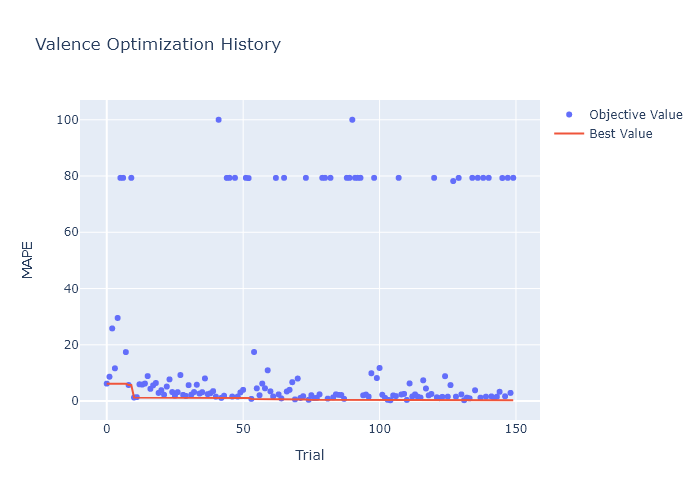
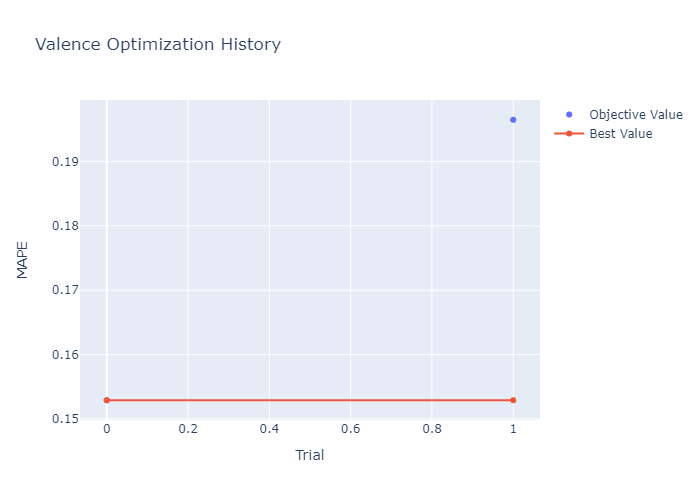
added valuation to VA model

diff --git a/MusicVAClassifier/train_models.py b/MusicVAClassifier/train_models.py
@@ -9,12 +9,10 @@ import pandas as pd
 import librosa
 from keras import Model
 from keras.optimizers import SGD
-from sklearn.svm import SVR, NuSVR
 from sklearn.model_selection import train_test_split
 from keras.layers import Input, Dense, Dropout
 import optuna.visualization as vis
-from sklearn.metrics import mean_squared_error
-import joblib
+from sklearn import metrics
 
 
 class Bcolors:
@@ -114,7 +112,6 @@ def build_model():
 
     # --- Extract Common features using librosa
     # Mel-frequency cepstral coefficients (MFCCs)
-    # TODO - define fmin and fmax - but see first the average
     mfcc = np.array([librosa.feature.mfcc(y=librosa.load('MuVi_musics/' + file, duration=150)[0],
                                           sr=librosa.load('MuVi_musics/' + file, duration=150)[1])
                      for file in dataset["Music_name"]])
@@ -124,7 +121,6 @@ def build_model():
     print("Mfcc done!")
 
     # Spectral centroid
-    # TODO - define fmin and fmax - but see first the average
     cent = np.array(
         [librosa.feature.spectral_centroid(y=librosa.load('MuVi_musics/' + file, duration=150)[0]) for file in
          dataset["Music_name"]])
@@ -133,8 +129,6 @@ def build_model():
     cent = np.around(np.interp(cent, (0, 8550), (0, 1)), decimals=3)
     print("cent done!")
 
-    # TODO - Acho que Range: [0; 1]
-    # TODO - normalizar para 3 casas decimais
     # Zero-crossing rate
     zcr = np.array(
         [librosa.feature.zero_crossing_rate(y=librosa.load('MuVi_musics/' + file, duration=150)[0]) for file in
@@ -147,8 +141,6 @@ def build_model():
 
     # --- Extract Valence features using librosa
     # Chroma features
-    # TODO - Acho que Range: [0; 1]
-    # TODO - normalizar para 3 casas decimais
     chroma_cqt = np.array(
         [librosa.feature.chroma_cqt(y=librosa.load('MuVi_musics/' + file, duration=150)[0],
                                     sr=librosa.load('MuVi_musics/' + file, duration=150)[1])
@@ -158,8 +150,6 @@ def build_model():
     chroma_cqt = np.around(chroma_cqt, decimals=3)
     print("Chroma_cqt done!")
 
-    # Range: [0; 1]
-    # TODO - normalizar para 3 casas decimais
     chroma_stft = np.array(
         [librosa.feature.chroma_stft(y=librosa.load('MuVi_musics/' + file, duration=150)[0],
                                      sr=librosa.load('MuVi_musics/' + file, duration=150)[1])
@@ -169,8 +159,6 @@ def build_model():
     chroma_stft = np.around(chroma_stft, decimals=3)
     print("chroma_stft done!")
 
-    # Range: [0; 1]
-    # TODO - normalizar para 3 casas decimais
     chroma_cens = np.array(
         [librosa.feature.chroma_cens(y=librosa.load('MuVi_musics/' + file, duration=150)[0],
                                      sr=librosa.load('MuVi_musics/' + file, duration=150)[1])
@@ -181,7 +169,6 @@ def build_model():
     print("chroma_cens done!")
 
     # Spectral rolloff
-    # TODO - define min and max - but see first the average
     rolloff = np.array(
         [librosa.feature.spectral_rolloff(y=librosa.load('MuVi_musics/' + file, duration=150)[0],
                                           sr=librosa.load('MuVi_musics/' + file, duration=150)[1])
@@ -193,7 +180,6 @@ def build_model():
 
     # --- Extract Arousal features using librosa
     # Spectral contrast
-    # TODO - define fmin and fmax - but see first the average - I think it goes from 0 to 65
     spectral_contrast = np.array(
         [librosa.feature.spectral_contrast(y=librosa.load('MuVi_musics/' + file, duration=150)[0],
                                            sr=librosa.load('MuVi_musics/' + file, duration=150)[1])
@@ -226,17 +212,24 @@ def build_model():
     print("Train and test split...")
     # Split data into training and testing sets for Valence
     x_train_valence, x_test_valence, y_train_valence, y_test_valence = train_test_split(dataframe_valence, y_valence,
-                                                                                        test_size=0.2, random_state=42)
+                                                                                        test_size=0.25, random_state=42)
     x_train_arousal, x_test_arousal, y_train_arousal, y_test_arousal = train_test_split(dataframe_arousal, y_arousal,
-                                                                                        test_size=0.2, random_state=42)
+                                                                                        test_size=0.25, random_state=42)
+
+    # Split data into training and validation sets for Valence
+    x_train_valence, x_val_valence, y_train_valence, y_val_valence = train_test_split(x_train_valence, y_train_valence,
+                                                                                        test_size=0.25, random_state=42)
+    x_train_arousal, x_val_arousal, y_train_arousal, y_val_arousal = train_test_split(x_train_arousal, y_train_arousal,
+                                                                                        test_size=0.25, random_state=42)
 
     # --- Valence Model With Optuna
+    print(f"Training Valence...")
     study = optuna.create_study(direction='minimize')  # or 'maximize' if optimizing accuracy
-    study.optimize(lambda trial: objective(trial, x_train_valence, y_train_valence,
-                                           'valence'), n_trials=150)
+    study.optimize(lambda trial: objective(trial, x_train_valence, x_test_valence, x_val_valence,
+                                           y_train_valence, y_test_valence, y_val_arousal,
+                                           'valence'), n_trials=2)
 
     # Plot and save the optimization history
-    optuna_history = study.trials_dataframe()
     fig = vis.plot_optimization_history(study)
     fig.update_layout(title="Valence Optimization History", yaxis_title="MAPE")
     fig.write_image("./Optuna_History_images/valence_optuna_history.png")
@@ -253,34 +246,28 @@ def build_model():
     best_epochs = best_trial.params['epochs']
     best_batch_size = best_trial.params['batch_size']
 
-    best_metric_valence, best_model_valence = train_model(x_train_valence, y_train_valence, 'valence',
+    best_metric_valence, best_model_valence = train_model(x_train_valence, x_test_valence, x_val_valence,
+                                                          y_train_valence, y_test_valence, y_val_valence, 'valence',
                                                           best_learning_rate, best_num_units, best_dropout_rate,
                                                           best_epochs, best_batch_size)
 
     # best_metric_valence, best_model_valence = train_model(x_train_valence, y_train_valence, 'valence',
     #                                                       0.0007587243085528094, 282, 0.0004096418070471742)
 
-    print('Best value: {:.5f}'.format(best_metric_valence))
-    # print('Best parameters: {}'.format(best_trial.params))
-
-    # 5. Evaluate the model on the test data
-    evaluation_results = best_model_valence.evaluate(x_test_valence, y_test_valence)
-
-    # Print the metric values during evaluation
-    print(f"Valence evaluation results: ")
-    for metric_name, metric_value in zip(best_model_valence.metrics_names, evaluation_results):
-        print(metric_name + ": " + str(metric_value))
+    print('Best validation MAPE value: {:.5f}'.format(best_metric_valence))
+    print('Best parameters: {}'.format(best_trial.params))
 
     # Save the best model
     best_model_valence.save("../models/valence_model.h5")
 
     # --- Arousal Model With Optuna
+    print(f"Training Arousal...")
     study_arousal = optuna.create_study(direction='minimize')  # or 'maximize' if optimizing accuracy
-    study_arousal.optimize(lambda trial: objective(trial, x_train_arousal, y_train_arousal, 'arousal'),
-                           n_trials=150)
+    study_arousal.optimize(lambda trial: objective(trial, x_train_arousal, x_test_arousal, x_val_arousal,
+                                                   y_train_arousal, y_test_arousal, y_val_arousal, 'arousal'),
+                           n_trials=2)
 
     # Plot and save the optimization history
-    # optuna_history = study.trials_dataframe()
     fig_arousal = vis.plot_optimization_history(study_arousal)
     fig_arousal.update_layout(title="Arousal Optimization History", yaxis_title="MAPE")
     fig_arousal.write_image("./Optuna_History_images/arousal_optuna_history.png")
@@ -307,21 +294,13 @@ def build_model():
     #                                                       0.2841357947811655)
 
     print('Best value: {:.5f}'.format(best_metric_arousal))
-    # print('Best parameters: {}'.format(best_trial_arousal.params))
-
-    # 5. Evaluate the model on the test data
-    evaluation_results = best_model_arousal.evaluate(x_test_arousal, y_test_arousal)
-
-    # Print the metric values during evaluation
-    print(f"Arousal evaluation results: ")
-    for metric_name, metric_value in zip(best_model_arousal.metrics_names, evaluation_results):
-        print(metric_name + ": " + str(metric_value))
+    print('Best parameters: {}'.format(best_trial_arousal.params))
 
     # Save the best mode
     best_model_arousal.save("../models/arousal_model.h5")
 
 
-def objective(trial, x_train, y_train, characteristic):
+def objective(trial, x_train, x_test, x_val, y_train, y_test, y_val, characteristic):
     # Define the hyperparameters to be optimized
     learning_rate = trial.suggest_float('learning_rate', 1e-5, 1e-2, log=True)
     num_units = trial.suggest_int('num_units', 32, 512)
@@ -330,15 +309,15 @@ def objective(trial, x_train, y_train, characteristic):
     epochs = trial.suggest_int('epochs', 50, 200)
 
     # Train the model and obtain the validation metric
-    metric, _ = train_model(x_train, y_train, characteristic, learning_rate, num_units, dropout_rate, epochs,
-                            batch_size)
+    metric, _ = train_model(x_train, x_test, x_val, y_train, y_test, y_val, characteristic, learning_rate,
+                            num_units, dropout_rate, epochs, batch_size)
 
     # Return the validation metric as the objective value to be optimized (minimized)
     return metric
 
 
-def train_model(x_train, y_train, characteristic, learning_rate, num_units, dropout_rate, epochs, batch_size):
-    print(f"Training {characteristic}...")
+def train_model(x_train, x_test, x_val, y_train, y_test, y_val, characteristic, learning_rate, num_units, dropout_rate,
+                epochs, batch_size):
     # Define the input shape
     input_shape = (x_train.shape[1],)
 
@@ -362,17 +341,23 @@ def train_model(x_train, y_train, characteristic, learning_rate, num_units, drop
     # Train the model«
     history = model.fit(x_train, y_train, epochs=epochs, batch_size=batch_size, verbose=0)
 
-    # plt.plot(history.history['loss'])
-    # plt.plot(history.history['mean_absolute_percentage_error'])
-    # plt.title('Model Training History')
-    # plt.xlabel('Epoch')
-    # plt.ylabel('Value')
-    # plt.legend(['Loss', 'Mean Absolute Percentage Error'], loc='upper right')
-    # plt.savefig(f'{characteristic}_training_history.png')
-    # plt.close()
+    print(f"Train MSE: {history.history['loss'][-1]}")
+    print(f"Train MAPE: {history.history['mean_absolute_percentage_error'][-1]}")
+
+    # Evaluate the model using the test data
+    evaluation_results = model.evaluate(x_test, y_test)
+    print(f"Test MSE: {evaluation_results[model.metrics_names.index('loss')]}")
+    print(f"Test MAPE: {evaluation_results[model.metrics_names.index('mean_absolute_percentage_error')]}")
+
+    # Validate the model using the validation data
+    y_pred = model.predict(x_val)
+    mse = metrics.mean_squared_error(y_val, y_pred)
+    mape = metrics.mean_absolute_percentage_error(y_val, y_pred)
+    print(f"Validation MSE: {mse}")
+    print(f"Validation MAPE: {mape}")
 
     # Return the metric values for each epoch during training
-    return history.history['mean_absolute_percentage_error'][-1], model
+    return mape, model
 
 
 # download_mu_vi_musics()
